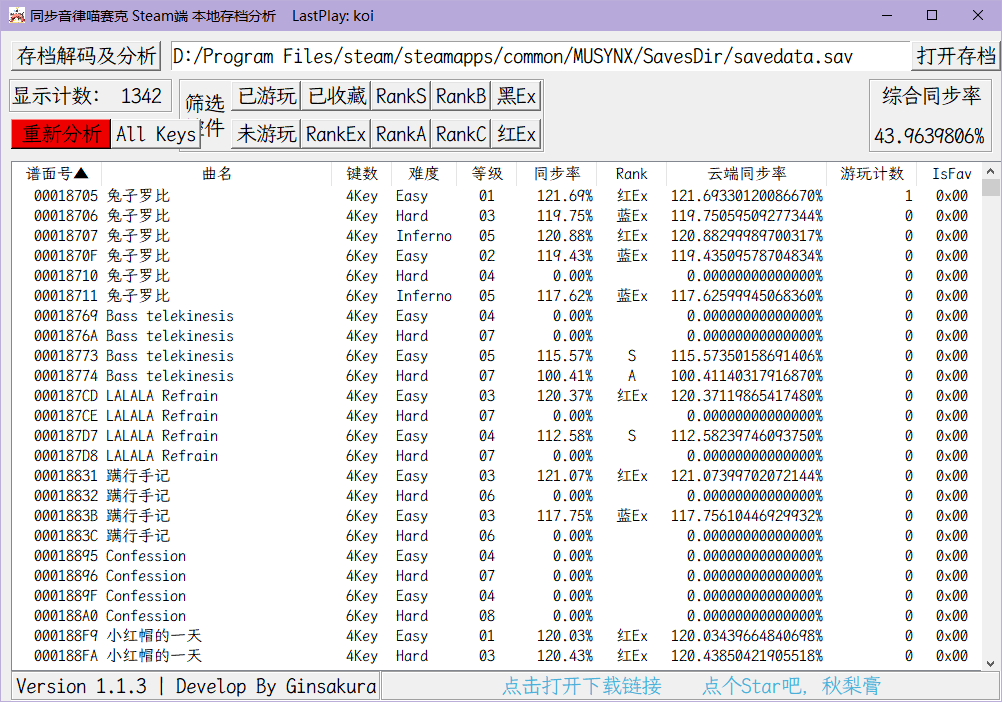
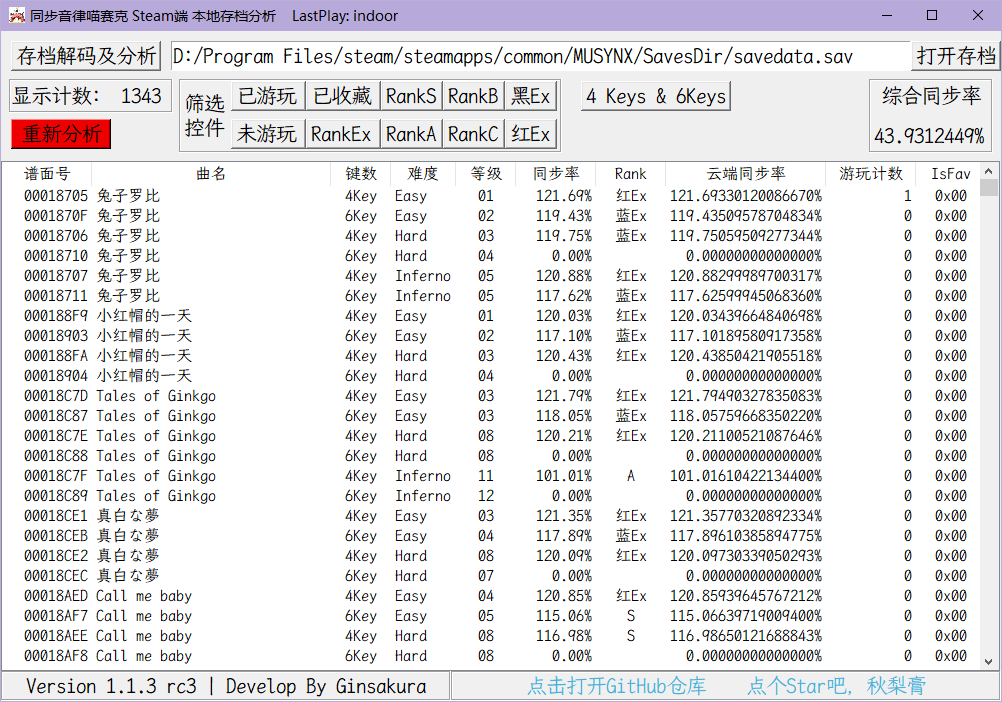
更新到1.1.4 rc1

diff --git a/MusyncSavDecodeGUI.py b/MusyncSavDecodeGUI.py
@@ -52,9 +52,9 @@ class MusyncSavDecodeGUI(object):
 		self.dataSelectMethod = None
 		self.keys = 0
 		self.treeviewColumns = ["SpeedStall",'SongName',"Keys","Difficulty","DifficultyNumber","SyncNumber","Rank","UploadScore","PlayCount","IsFav"]
-		self.keysText = ['All Keys','4 Keys', '6 Keys']
+		self.keysText = [['4 Keys & 6Keys', 150], ['4 Keys', 72], ['6 Keys', 72]]
 		self.wh = [0,0]
-		self.version = '1.1.3 rc3'
+		self.version = '1.1.4 rc1'
 
 		##Controls##
 		#self..place(x= ,y= ,width= ,height=)
@@ -94,51 +94,39 @@ class MusyncSavDecodeGUI(object):
 
 		#筛选控件
 		self.selectFrameLabel = Label(self.root, text="", relief="groove")
-		self.selectFrameLabel.place(x=178,y=48,width=366,height=74)
+		self.selectFrameLabel.place(x=178,y=48,width=383,height=74)
 		self.selectLabel = Label(self.root, text="筛选\n控件", anchor="w", font=self.font, relief="flat")
 		self.selectLabel.place(x=180,y=55,width=50,height=60)
 		self.selectPlayedButton = Button(self.root, text='已游玩', command=lambda:self.SelectMethod('Played'), anchor="w", font=self.font)
-		self.selectPlayedButton.place(x=230,y=50,width=70,height=30)
+		self.selectPlayedButton.place(x=230,y=50,width=75,height=30)
 		self.selectUnplayButton = Button(self.root, text='未游玩', command=lambda:self.SelectMethod('Unplay'), anchor="w", font=self.font)
-		self.selectUnplayButton.place(x=230,y=88,width=70,height=30)
+		self.selectUnplayButton.place(x=230,y=88,width=75,height=30)
 		self.selectIsFavButton = Button(self.root, text='已收藏', command=lambda:self.SelectMethod('IsFav'), anchor="w", font=self.font)
-		self.selectIsFavButton.place(x=300,y=50,width=70,height=30)
+		self.selectIsFavButton.place(x=305,y=50,width=75,height=30)
 		self.selectExRankButton = Button(self.root, text='RankEx', command=lambda:self.SelectMethod('RankEX'), anchor="w", font=self.font)
-		self.selectExRankButton.place(x=300,y=88,width=70,height=30)
+		self.selectExRankButton.place(x=305,y=88,width=75,height=30)
 		self.selectSRankButton = Button(self.root, text='RankS', command=lambda:self.SelectMethod('RankS'), anchor="w", font=self.font)
-		self.selectSRankButton.place(x=370,y=50,width=60,height=30)
+		self.selectSRankButton.place(x=380,y=50,width=62,height=30)
 		self.selectARankButton = Button(self.root, text='RankA', command=lambda:self.SelectMethod('RankA'), anchor="w", font=self.font)
-		self.selectARankButton.place(x=370,y=88,width=60,height=30)
+		self.selectARankButton.place(x=380,y=88,width=62,height=30)
 		self.selectBRankButton = Button(self.root, text='RankB', command=lambda:self.SelectMethod('RankB'), anchor="w", font=self.font)
-		self.selectBRankButton.place(x=430,y=50,width=60,height=30)
+		self.selectBRankButton.place(x=442,y=50,width=62,height=30)
 		self.selectCRankButton = Button(self.root, text='RankC', command=lambda:self.SelectMethod('RankC'), anchor="w", font=self.font)
-		self.selectCRankButton.place(x=430,y=88,width=60,height=30)
+		self.selectCRankButton.place(x=442,y=88,width=62,height=30)
 		self.select122Button = Button(self.root, text='黑Ex', command=lambda:self.SelectMethod('Sync122'), anchor="w", font=self.font)
-		self.select122Button.place(x=490,y=50,width=50,height=30)
+		self.select122Button.place(x=504,y=50,width=52,height=30)
 		self.select120Button = Button(self.root, text='红Ex', command=lambda:self.SelectMethod('Sync120'), anchor="w", font=self.font)
-		self.select120Button.place(x=490,y=88,width=50,height=30)
-
-		# ##排序控件##
-		# self.sortFrameLabel = Label(self.root, text="", relief="groove")
-		# self.sortFrameLabel.place(x=548,y=48,width=256,height=74)
-		# self.sortLabel = Label(self.root,text="排序\n控件", anchor="nw", font=self.font, relief="flat")
-		# self.sortLabel.place(x=550,y=55,width=50,height=60)
-		# self.sortPlayCountButton = Button(self.root, text="游玩次数", command=lambda:self.SortMethod('PC'), anchor="w", font=self.font)
-		# self.sortPlayCountButton.place(x=600,y=50,width=90,height=30)
-		# self.sortDiffNumButton = Button(self.root, text="难度等级", command=lambda:self.SortMethod('DiffNum'), anchor="w", font=self.font)
-		# self.sortDiffNumButton.place(x=600,y=88,width=90,height=30)
-		# self.sortSyncButton = Button(self.root, text="云端同步率", command=lambda:self.SortMethod('Sync'), anchor="w", font=self.font)
-		# self.sortSyncButton.place(x=690,y=50,width=110,height=30)
-		# self.sortSongNameButton = Button(self.root, text="歌曲名称", command=lambda:self.SortMethod('SongName'), anchor="w", font=self.font)
-		# self.sortSongNameButton.place(x=690,y=88,width=90,height=30)
+		self.select120Button.place(x=504,y=88,width=52,height=30)
 
 		##键数筛选##
-		self.selectKeys = Button(self.root, text=self.keysText[self.keys], command=lambda:self.SelectKeys(), anchor='w', font=self.font)
-		self.selectKeys.place(x=110,y=88,width=90,height=30)
+		self.selectKeys = Button(self.root, text=self.keysText[self.keys][0], command=lambda:self.SelectKeys(), anchor='w', font=self.font)
+		self.selectKeys.place(x=580,y=50,width=self.keysText[self.keys][1],height=30)
 
 		##AutoRun##
 		self.InitLabel('初始化函数执行中......')
 		self.UpdateWindowInfo()
+		self.TreeviewWidthUptate()
+		self.TreeviewColumnUpdate()
 		self.CheckUpdate()
 		self.CheckJsonUpdate()
 		self.CheckFile()
@@ -146,7 +134,6 @@ class MusyncSavDecodeGUI(object):
 			self.GetSaveFile()
 		else:
 			self.InitLabel(text="正在读取存档路径……")
-			self.root.update()
 			sfp = open('./musync_data/SaveFilePath.sfp','r+')
 			sfpr = sfp.read()
 			sfp.close()
@@ -154,7 +141,6 @@ class MusyncSavDecodeGUI(object):
 				self.GetSaveFile()
 			elif (not os.path.isfile(sfpr)):
 				self.InitLabel(text="正在删除存档路径.")
-				self.root.update()
 				os.remove('./musync_data/SaveFilePath.sfp')
 				self.GetSaveFile()
 			else:
@@ -191,6 +177,9 @@ class MusyncSavDecodeGUI(object):
 
 	def SelectKeys(self):
 		self.keys = (self.keys+1)%3
+		self.selectKeys.configure(text=self.keysText[self.keys][0])
+		self.selectKeys.place(width=self.keysText[self.keys][1])
+		self.root.update()
 		self.DataLoad()
 	def SelectMethod(self,method):
 		if self.dataSelectMethod == method:
@@ -228,7 +217,6 @@ class MusyncSavDecodeGUI(object):
 
 	def CheckJsonUpdate(self):
 		self.InitLabel(text="正在从GitHub拉取SongName.json的更新信息……")
-		self.root.update()
 		try:
 			response = requests.get("https://raw.githubusercontent.com/Ginsakura/MUSYNCSave/main/musync_data/songname.update")
 			githubVersion = response.content.decode('utf8')
@@ -252,7 +240,6 @@ class MusyncSavDecodeGUI(object):
 
 	def CheckUpdate(self):
 		self.InitLabel(text="正在从Github拉取软件的更新信息……")
-		self.root.update()
 		oldVersion = int(f'{self.version[0]}{self.version[2]}{self.version[4]}')
 		oldRC = int(self.version[-1])
 		try:
@@ -467,10 +454,11 @@ class MusyncSavDecodeGUI(object):
 		self.saveData.heading("UploadScore",anchor="center",text="云端同步率"+(('▼' if self.dataSortMethodsort[1] else '▲') if self.dataSortMethodsort[0]=='UploadScore' else ''))
 		self.saveData.heading("PlayCount",anchor="center",text="游玩计数"+(('▼' if self.dataSortMethodsort[1] else '▲') if self.dataSortMethodsort[0]=='PlayCount' else ''))
 		self.saveData.heading("IsFav",anchor="center",text="IsFav"+(('▼' if self.dataSortMethodsort[1] else '▲') if self.dataSortMethodsort[0]=='IsFav' else ''))
+		self.root.update()
 
-	def UptateTreeviewWidth(self):
+	def TreeviewWidthUptate(self):
 		self.saveData.column("SpeedStall",anchor="e",width=90)
-		self.saveData.column("SongName",anchor="w",width=self.windowInfo[2]-770)
+		self.saveData.column("SongName",anchor="w",width=self.windowInfo[2]-761)
 		self.saveData.column("Keys",anchor="center",width=60)
 		self.saveData.column("Difficulty",anchor="w",width=65)
 		self.saveData.column("DifficultyNumber",anchor="center",width=60)
@@ -479,32 +467,32 @@ class MusyncSavDecodeGUI(object):
 		self.saveData.column("UploadScore",anchor="e",width=160)
 		self.saveData.column("PlayCount",anchor="e",width=90)
 		self.saveData.column("IsFav",anchor="center",width=70)
+		self.root.update()
 
 	def UpdateWindowInfo(self):
-		self.root.update()
 		self.windowInfo = ['root.winfo_x()','root.winfo_y()',root.winfo_width(),root.winfo_height()]
 
 		self.saveFilePathEntry.place(x=170,y=10,width=(self.windowInfo[2]-260),height=30)
 		self.getSaveFilePath.place(x=(self.windowInfo[2]-90),y=10,width=90,height=30)
-		self.saveData.place(x=10 ,y=130 ,width=(self.windowInfo[2]-10) ,height=(self.windowInfo[3]-160))
+		self.saveData.place(x=0 ,y=130 ,width=(self.windowInfo[2]-1) ,height=(self.windowInfo[3]-160))
 
 		if not self.wh == self.windowInfo[2:]:
-			self.UptateTreeviewWidth()
+			self.TreeviewWidthUptate()
 			self.TreeviewColumnUpdate()
 		
-		self.VScroll1.place(x=self.windowInfo[2]-30, y=1, width=20, relheight=1)
+		self.VScroll1.place(x=self.windowInfo[2]-22, y=1, width=20, height=self.windowInfo[3]-162)
 		self.saveCountVar.set(self.saveCount)
 		self.saveCountLabel.configure(text=self.saveCountVar.get())
 		self.avgSyncVar.set(f'{(self.totalSync / (1 if self.saveCount==0 else self.saveCount))}')
 		self.avgSyncLabel.configure(text=self.avgSyncVar.get()[0:10]+"%")
-		self.developer.place(x=10,y=self.windowInfo[3]-30,width=450,height=30)
-		self.gitHubLink.place(x=460,y=self.windowInfo[3]-30,width=self.windowInfo[2]-460,height=30)
-		self.selectKeys.configure(text=self.keysText[self.keys])
+		self.developer.place(x=0,y=self.windowInfo[3]-30,width=450,height=30)
+		self.gitHubLink.place(x=450,y=self.windowInfo[3]-30,width=self.windowInfo[2]-450,height=30)
 
 		# self.saveData.bind("<Double-1>",self.DoubleClick)
 		self.saveData.bind("<ButtonRelease-1>",self.SortClick)
 
 		self.wh = self.windowInfo[2:]
+		self.root.update()
 		root.after(500,self.UpdateWindowInfo)
 
 class SubWindow(object):
